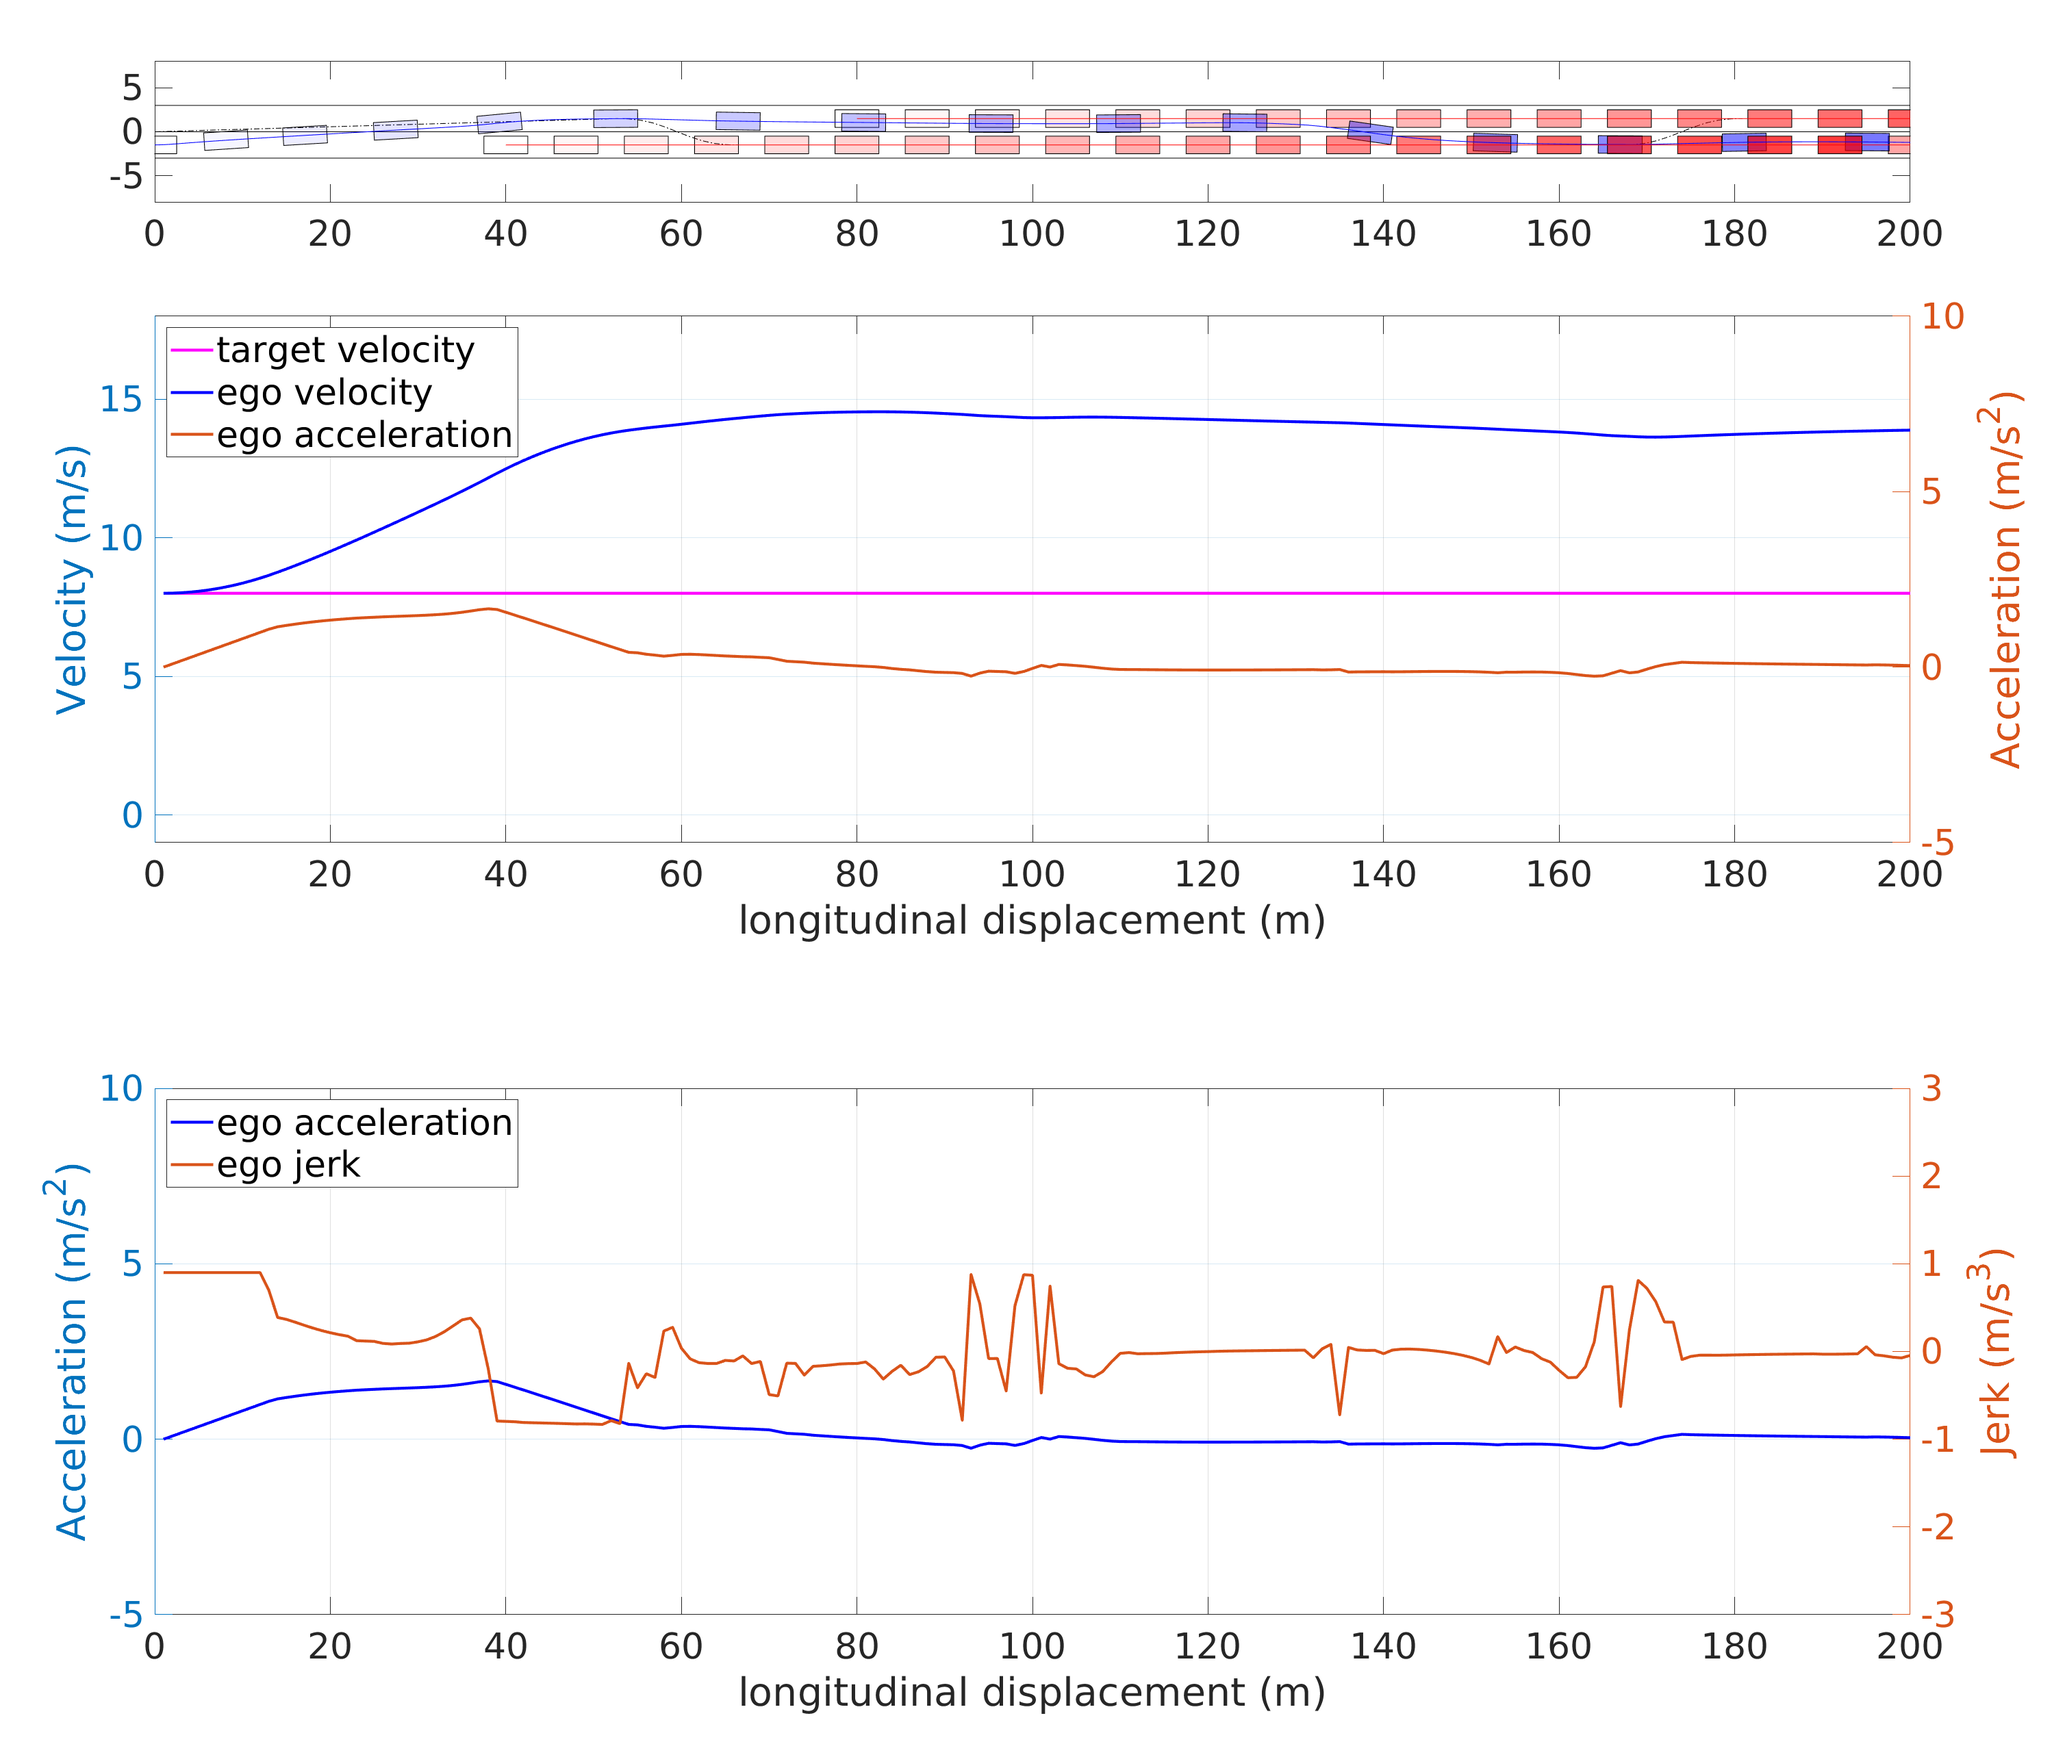
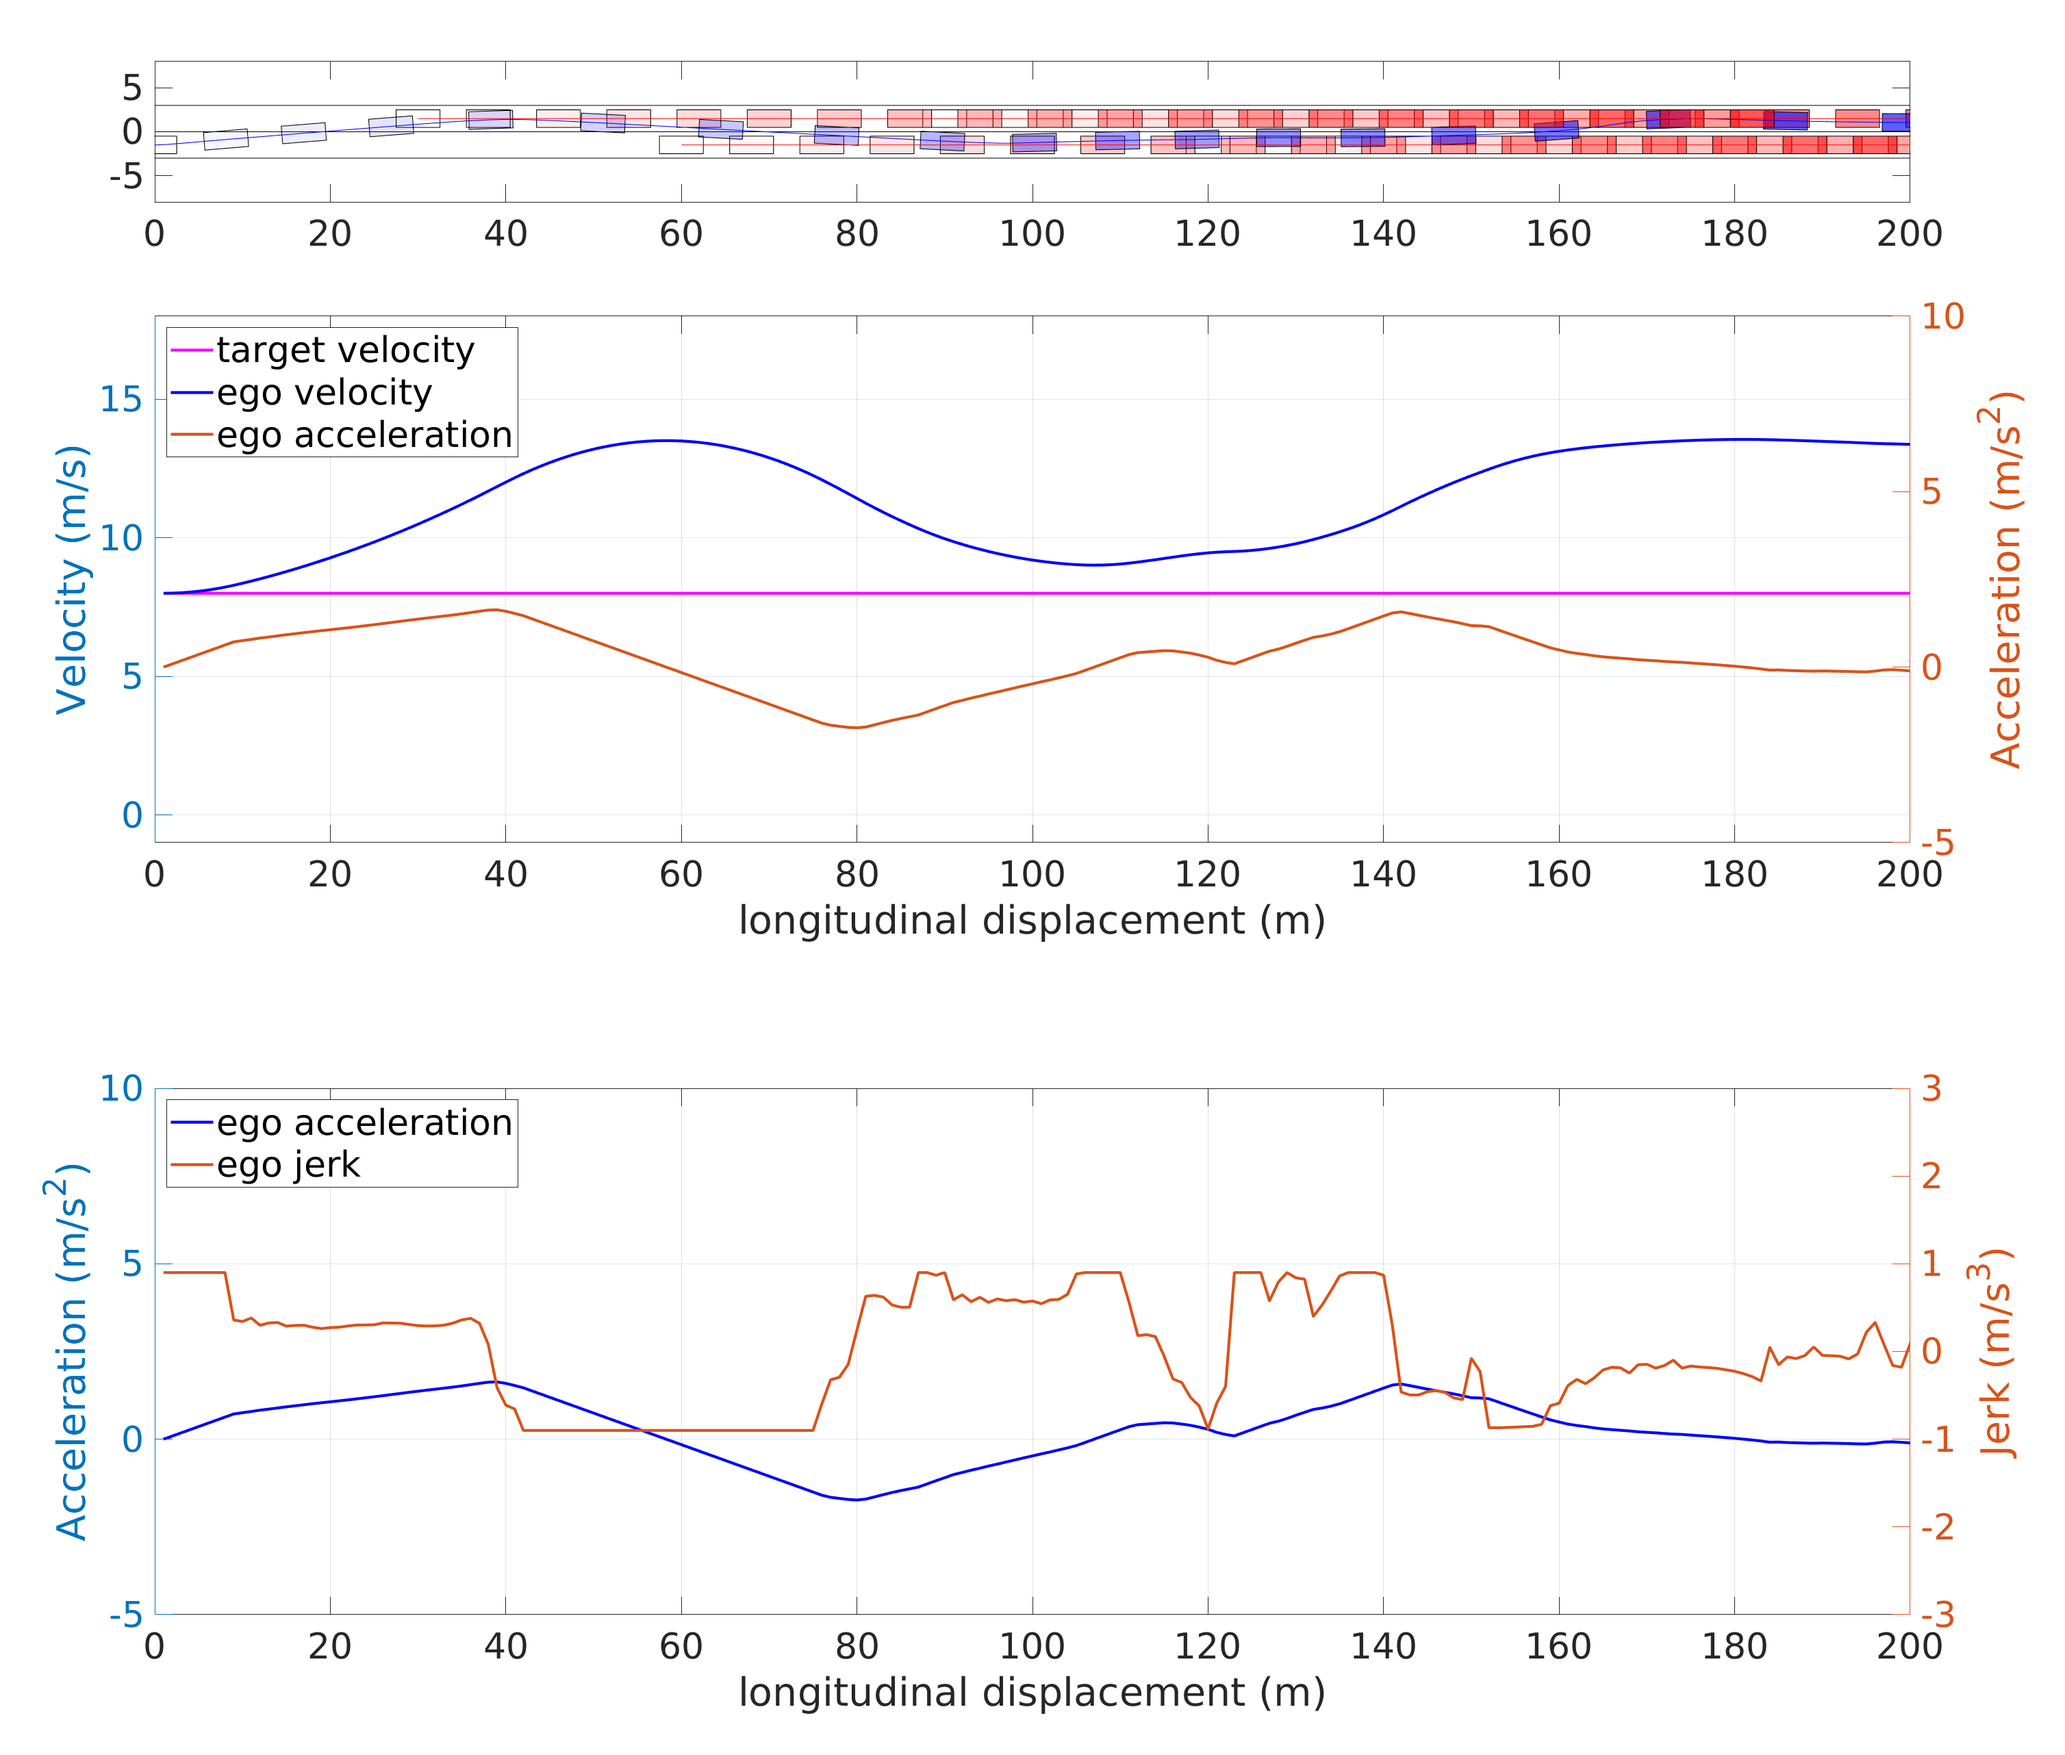
zigzag scenario test2 passed perfectly for two phase planner

diff --git a/iLQR.m b/iLQR.m
@@ -101,7 +101,7 @@ vref_road=15;
 aref=0.;
 traj_count=0;
 ego_initial_y=-Lane_size/2.;
-scenario_ref='LaneChange';%'LaneChange';
+scenario_ref='Linear';%'LaneChange';
 %vehicle objects
 egoV=vehicle;
 vehicle_type='Ego';%to make sure global variables of y_final and y_temp_final will update only for case of Ego vehicle 
@@ -122,7 +122,7 @@ y_init=ego_initial_y;
             y_final = 1*Lane_size/2.;
         end
 tf=1;%seconds needed to do the lane change 
-ref_traj    = reftraj_gen(2*T, dt,ego_initial_y ,20,scenario_ref , aref,vref,tf,20,vehicle_type);%it must be 3 for D1 and -3 for others 
+ref_traj    = reftraj_gen(2*T, dt,ego_initial_y ,20,scenario_ref , aref,vref,tf,0,vehicle_type);%it must be 3 for D1 and -3 for others 
 top_lane    = reftraj_gen(2*T, dt,  road_up_lim,20, 'Linear', aref,vref);
 side_lane   = reftraj_gen(2*T, dt, road_low_lim,20, 'Linear', aref, vref);
 left_road   = reftraj_gen(2*T, dt, road_up_lim,20, 'Linear', aref, vref);
@@ -224,7 +224,7 @@ for i = 1:1:NUM_TOTAL
                 traj_dy_dist(jj) = abs(X_planned(2,jj) - y_temp_final);
                 sum_traj_dy_dist=sum_traj_dy_dist+traj_dy_dist(jj);
             end
-            if sum_traj_dy_dist < 0.7%Omid: here we want to update  
+            if sum_traj_dy_dist < 3.2%Omid: here we want to update  0.7
                
         if Phase==1
          if EgoPolicy<0 %then we need to do a lane change 
@@ -500,8 +500,8 @@ if plot_gif == 1
         % draw planned trajectory and the reference trajectory
         plot(X_planned(1,:), X_planned(2,:),'b');
         hold on
-        plot(ref_traj_fractions(:,1),ref_traj_fractions(:,2),'--g');  
-        hold on
+%         plot(ref_traj_fractions(:,1),ref_traj_fractions(:,2),'--g');  
+%         hold on
 
         % draw obstacle
         for j = 1:length(OBS)
@@ -602,8 +602,8 @@ it = 200;
 % environment visualizations
 plot(side_lane(:,1),side_lane(:,2)+6,'--r');  
 hold on
-plot(ref_traj_fractions(:,1),ref_traj_fractions(:,2),'-.k');  
-hold on
+% plot(ref_traj_fractions(:,1),ref_traj_fractions(:,2),'-.k');  
+% hold on
 plot(side_lane(:,1),side_lane(:,2),'-.k');  
 hold on
 plot(left_road(:,1),left_road(:,2),'k');  
